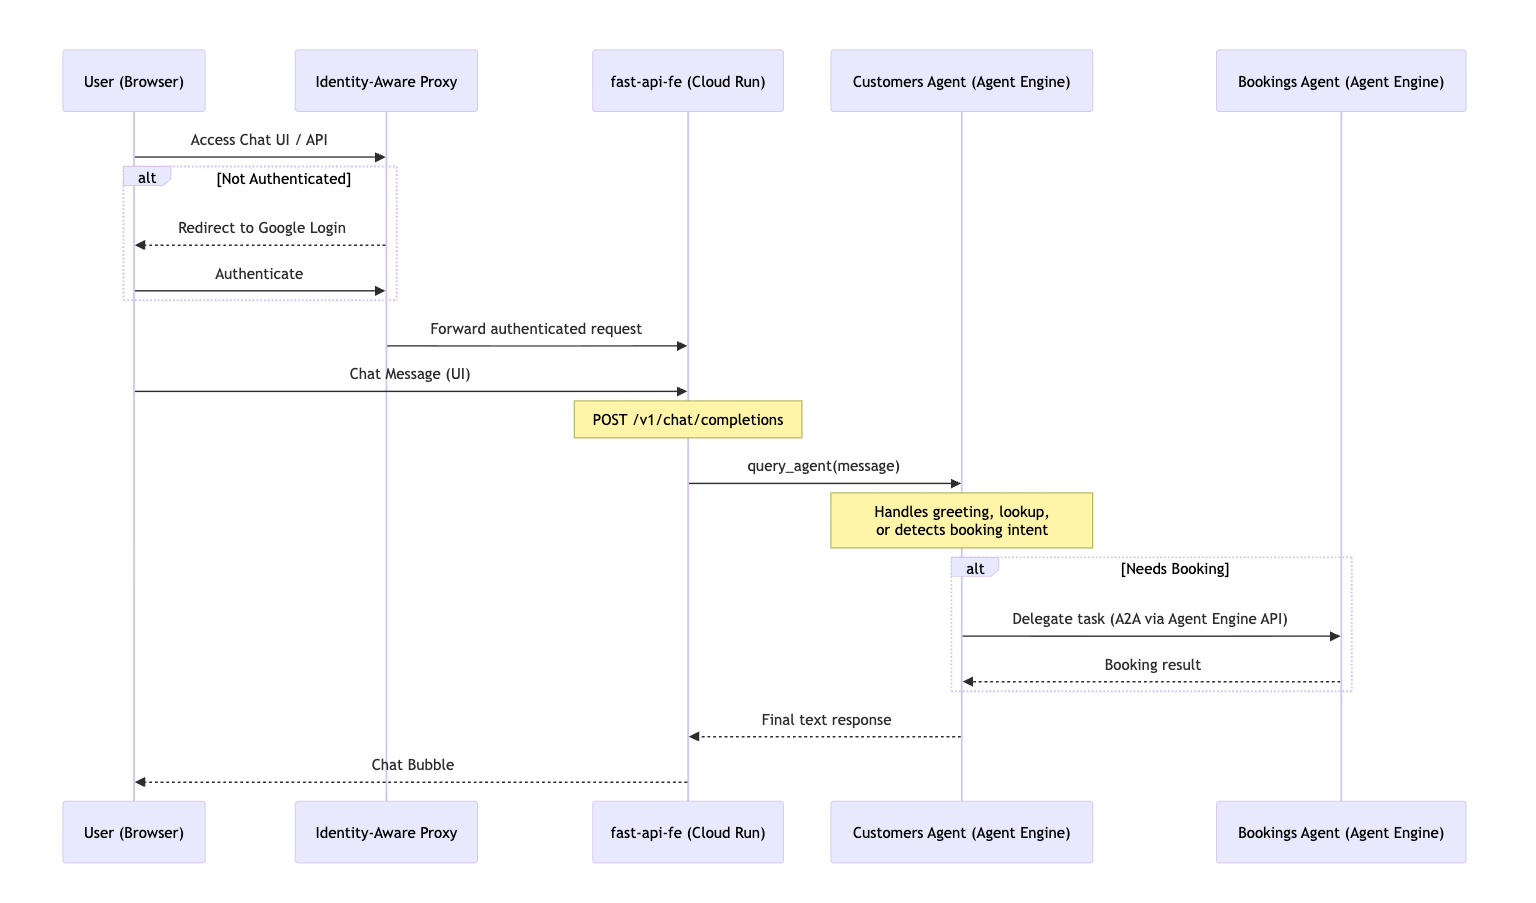
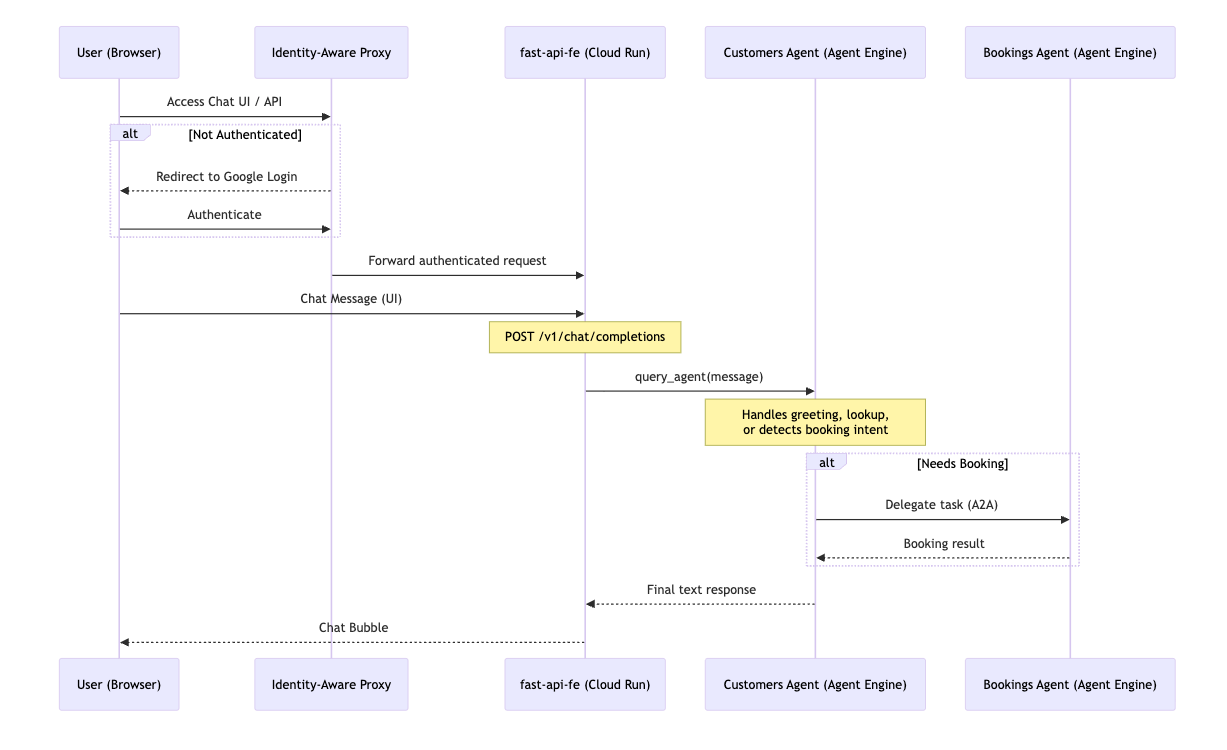
update readme for a2a protocol change

diff --git a/fast-api-fe/README.md b/fast-api-fe/README.md
@@ -3,7 +3,11 @@
 A FastAPI web application that serves:
 
 - **Chat UI** — modern dark-mode single-page UI at `GET /`
-- **OpenAI-compatible API** — `POST /v1/chat/completions` that proxies to the `customers` ADK agent on Vertex AI Agent Engine
+- **OpenAI-compatible API** — `POST /v1/chat/completions` that proxies to the `customers` ADK agent via the **Vertex AI Agent Engine REST API**
+
+> **Communication layers:**
+> - `fast-api-fe` → `customers` agent: Vertex AI Agent Engine REST API (session + streaming query)
+> - `customers` agent → `bookings` agent: A2A [experimental]
 
 ## Architecture
 
@@ -28,7 +32,7 @@ sequenceDiagram
     Note over CustomersAgent: Handles greeting, lookup,<br/>or detects booking intent
 
     alt Needs Booking
-        CustomersAgent->>BookingsAgent: Delegate task (A2A via Agent Engine API)
+        CustomersAgent->>BookingsAgent: Delegate task (A2A)
         BookingsAgent-->>CustomersAgent: Booking result
     end
 

diff --git a/README.md b/README.md
@@ -1,6 +1,6 @@
 # booking
 
-ReAct agent with A2A protocol [experimental]
+ReAct agent using Vertex AI Agent Engine REST API — customers agent calls bookings agent via A2A [experimental]
 Agent generated with [`googleCloudPlatform/agent-starter-pack`](https://github.com/GoogleCloudPlatform/agent-starter-pack) version `0.39.3`
 
 
